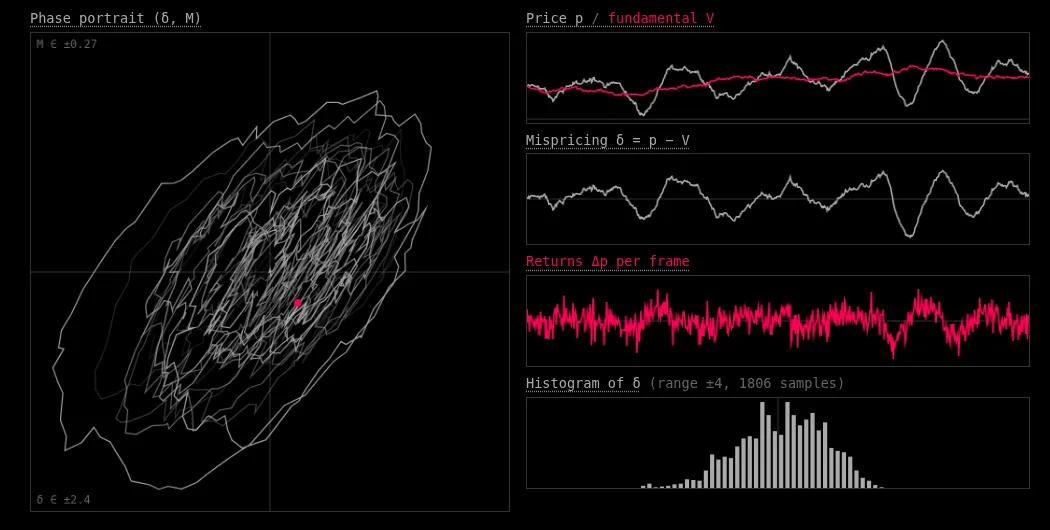
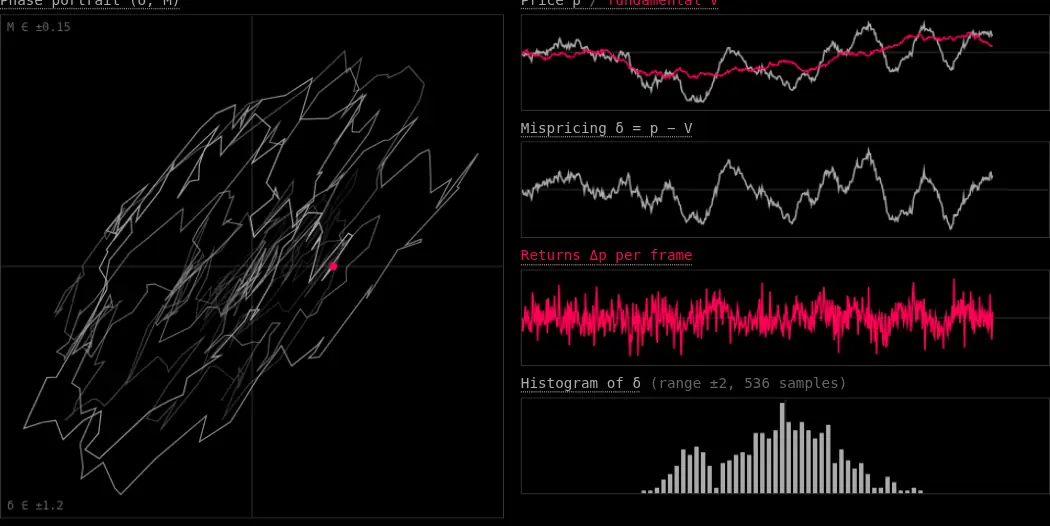
Animate the featured work previews, keeping stills for reduced motion

diff --git a/templates/home/featured_work.html b/templates/home/featured_work.html
@@ -17,12 +17,16 @@
 
     <div class="featured-grid">
         <article class="featured-card featured-card--flagship">
-            {# Same target as the card's first button, so it is kept out of the tab order #}
+            {# Same target as the card's first button, so it is kept out of the tab order. The still is
+            the last frame of the animation, shown to visitors who prefer reduced motion. #}
             <a class="featured-card__media" href="{{ spectral.path | safe }}" tabindex="-1" aria-hidden="true">
                 {% set image = get_image_metadata(path="img/home/spectral_criticality.webp") %}
-                <img src="{{ get_url(path='img/home/spectral_criticality.webp') | safe }}"
-                    alt="Spectral criticality simulation: eigenvalue histogram of a correlation matrix against the Marchenko-Pastur law, and temperature scans of its spectral moments across the critical point."
-                    loading="lazy" decoding="async" width="{{ image.width }}" height="{{ image.height }}">
+                <picture>
+                    <source srcset="{{ get_url(path='img/home/spectral_criticality.anim.webp') | safe }}" type="image/webp" media="(prefers-reduced-motion: no-preference)">
+                    <img src="{{ get_url(path='img/home/spectral_criticality.webp') | safe }}"
+                        alt="Spectral criticality simulation: eigenvalue histogram of a correlation matrix against the Marchenko-Pastur law, and temperature scans of its spectral moments across the critical point."
+                        loading="lazy" decoding="async" width="{{ image.width }}" height="{{ image.height }}">
+                </picture>
             </a>
 
             <div class="featured-card__body">
@@ -41,9 +45,12 @@
         <article class="featured-card">
             <a class="featured-card__media" href="{{ chiarella.path | safe }}" tabindex="-1" aria-hidden="true">
                 {% set image = get_image_metadata(path="img/home/chiarella.webp") %}
-                <img src="{{ get_url(path='img/home/chiarella.webp') | safe }}"
-                    alt="Chiarella market model: phase portrait of mispricing against the trend signal, with price, fundamental value, mispricing, returns and a histogram of the mispricing."
-                    loading="lazy" decoding="async" width="{{ image.width }}" height="{{ image.height }}">
+                <picture>
+                    <source srcset="{{ get_url(path='img/home/chiarella.anim.webp') | safe }}" type="image/webp" media="(prefers-reduced-motion: no-preference)">
+                    <img src="{{ get_url(path='img/home/chiarella.webp') | safe }}"
+                        alt="Chiarella market model: phase portrait of mispricing against the trend signal, with price, fundamental value, mispricing, returns and a histogram of the mispricing."
+                        loading="lazy" decoding="async" width="{{ image.width }}" height="{{ image.height }}">
+                </picture>
             </a>
 
             <div class="featured-card__body">
@@ -62,9 +69,12 @@
         <article class="featured-card">
             <a class="featured-card__media" href="{{ tsp.path | safe }}" tabindex="-1" aria-hidden="true">
                 {% set image = get_image_metadata(path="img/home/tsp_annealing.webp") %}
-                <img src="{{ get_url(path='img/home/tsp_annealing.webp') | safe }}"
-                    alt="Simulated annealing on the traveling salesman problem: an optimized tour through randomly placed cities."
-                    loading="lazy" decoding="async" width="{{ image.width }}" height="{{ image.height }}">
+                <picture>
+                    <source srcset="{{ get_url(path='img/home/tsp_annealing.anim.webp') | safe }}" type="image/webp" media="(prefers-reduced-motion: no-preference)">
+                    <img src="{{ get_url(path='img/home/tsp_annealing.webp') | safe }}"
+                        alt="Simulated annealing on the traveling salesman problem: a tour through randomly placed cities shortening from random to optimized as the temperature falls, with cost and acceptance-rate plots."
+                        loading="lazy" decoding="async" width="{{ image.width }}" height="{{ image.height }}">
+                </picture>
             </a>
 
             <div class="featured-card__body">
